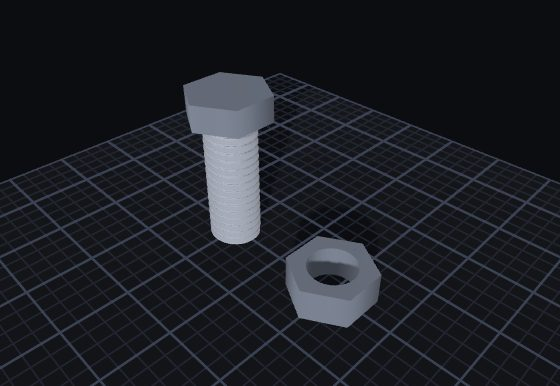
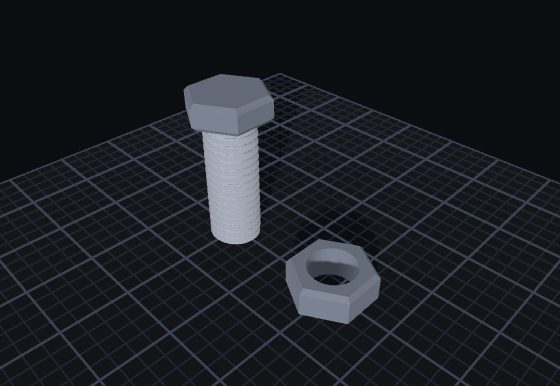
The examples stop looking like they were cut from a block
Twenty-nine parts across the builds lose their edges, now that they can.
A die is a rounded cube more than it is a cube; the tray, the soap dish,
the domino and the name plate were reading as slabs; the plant pot and
the coaster have soft rims. The bolt head and the nut are bevelled rather
than rounded, which is what a real head and a real nut are.

The cavities go with them. A tray rounded outside and sharp inside is
half a job, so the holes that scoop them out carry the same edge.

The stacking rings went out at 2.5 mm first and that was wrong: an 11 mm
ring with 2.5 mm off each rim has almost no wall left, and the four of
them melted into one smooth cone. At 1.4 mm they read as four rings
again.

Thumbnails re-shot.

diff --git a/src/examples/index.js b/src/examples/index.js
@@ -308,11 +308,11 @@ export const EXAMPLES = [
     blurb: 'A ramp to lean on and a lip to stop it sliding. Fits any phone.',
     teaches: 'ramps',
     parts: [
-      { type: 'cube', color: '#2E7DF6', params: { width: 84, height: 6, depth: 70 } },
+      { type: 'cube', color: '#2E7DF6', params: { width: 84, height: 6, depth: 70, edge: 2 } },
       // The ramp is full height at its back edge and tapers to nothing at the
       // front, which is exactly the wedge a phone wants to lean against.
       { type: 'wedge', color: '#2E7DF6', params: { width: 84, height: 46, depth: 46 }, at: [0, -12], lift: 6 },
-      { type: 'cube', color: '#FFC93D', params: { width: 84, height: 12, depth: 6 }, at: [0, 30], lift: 6 },
+      { type: 'cube', color: '#FFC93D', params: { width: 84, height: 12, depth: 6, edge: 2 }, at: [0, 30], lift: 6 },
     ],
   },
 
@@ -323,7 +323,7 @@ export const EXAMPLES = [
     teaches: 'pipes',
     parts: [
       { type: 'cylinder', color: '#35C46B', params: { bottomRadius: 34, topRadius: 34, height: 3, sides: 64 } },
-      { type: 'pipe', color: '#35C46B', params: { radius: 34, wall: 3, height: 89, sides: 64 }, lift: 3 },
+      { type: 'pipe', color: '#35C46B', params: { radius: 34, wall: 3, height: 89, sides: 64, edge: 1.2 }, lift: 3 },
     ],
   },
 
@@ -333,8 +333,8 @@ export const EXAMPLES = [
     blurb: 'A disc with a raised rim, so a wet glass stays where you put it.',
     teaches: 'round shapes',
     parts: [
-      { type: 'cylinder', color: '#A9744F', params: { bottomRadius: 45, topRadius: 45, height: 3, sides: 64 } },
-      { type: 'pipe', color: '#8A5B3C', params: { radius: 45, wall: 3, height: 5, sides: 64 }, lift: 3 },
+      { type: 'cylinder', color: '#A9744F', params: { bottomRadius: 45, topRadius: 45, height: 3, sides: 64, edge: 1 } },
+      { type: 'pipe', color: '#8A5B3C', params: { radius: 45, wall: 3, height: 5, sides: 64, edge: 1.2 }, lift: 3 },
     ],
   },
 
@@ -344,7 +344,7 @@ export const EXAMPLES = [
     blurb: 'A pipe swept most of the way round grips a cable and still lets it back out.',
     teaches: 'partial sweeps',
     parts: [
-      { type: 'cube', color: '#FF8A3D', params: { width: 24, height: 4, depth: 16 } },
+      { type: 'cube', color: '#FF8A3D', params: { width: 24, height: 4, depth: 16, edge: 1 } },
       // A pipe is built standing, so the quarter turn about X is what lays its
       // axis along the cable. The turn about Y comes first (Euler 'XYZ' with no
       // Z applies Y innermost, about the pipe's own axis) and spins the gap to
@@ -368,7 +368,7 @@ export const EXAMPLES = [
     blurb: 'Your own word on it and a hole for the ring. Change the word in the rail.',
     teaches: 'text and holes',
     parts: [
-      { type: 'cube', color: '#7C4DFF', params: { width: 46, height: 4, depth: 20 } },
+      { type: 'cube', color: '#7C4DFF', params: { width: 46, height: 4, depth: 20, edge: 1.4 } },
       { type: 'cylinder', color: '#7C4DFF', params: { bottomRadius: 10, topRadius: 10, height: 4, sides: 48 }, at: [-23, 0] },
       // Taller than the tag on purpose: a hole has to come out the far side to
       // be a hole rather than a dent.
@@ -390,8 +390,8 @@ export const EXAMPLES = [
     blurb: 'A slab and a word. Type your own into Words and it rebuilds itself.',
     teaches: 'text',
     parts: [
-      { type: 'cube', color: '#3A414F', params: { width: 110, height: 6, depth: 34 } },
-      { type: 'text', color: '#FFC93D', params: { text: 'HELLO', size: 15, thickness: 3 }, lift: 6 },
+      { type: 'cube', color: '#3A414F', params: { width: 110, height: 6, depth: 34, edge: 2 } },
+      { type: 'text', color: '#FFC93D', params: { text: 'HELLO', size: 15, thickness: 3, edge: 0.6 }, lift: 6 },
     ],
   },
 
@@ -402,7 +402,7 @@ export const EXAMPLES = [
     blurb: 'A back plate with two screw holes, and a peg raked upward so nothing slides off.',
     teaches: 'turning parts',
     parts: [
-      { type: 'cube', color: '#EDEFF4', params: { width: 30, height: 44, depth: 4 }, at: [0, -10] },
+      { type: 'cube', color: '#EDEFF4', params: { width: 30, height: 44, depth: 4, edge: 1.6 }, at: [0, -10] },
       // Lying along z, so they bore front to back through the plate.
       {
         type: 'cylinder',
@@ -451,10 +451,10 @@ export const EXAMPLES = [
     blurb: 'One block, and a second marked as a hole to scoop the inside out.',
     teaches: 'holes',
     parts: [
-      { type: 'cube', color: '#2E7DF6', params: { width: 90, height: 26, depth: 60 } },
+      { type: 'cube', color: '#2E7DF6', params: { width: 90, height: 26, depth: 60, edge: 3 } },
       // Open at the top: the hole runs past the rim rather than stopping level
       // with it, or the tray would come out as a sealed box.
-      { type: 'cube', color: '#8A93A5', params: { width: 82, height: 30, depth: 52 }, lift: 4, hole: true },
+      { type: 'cube', color: '#8A93A5', params: { width: 82, height: 30, depth: 52, edge: 3 }, lift: 4, hole: true },
     ],
   },
 
@@ -465,7 +465,7 @@ export const EXAMPLES = [
     blurb: 'Twenty-one balls marked as holes. Opposite faces add up to seven.',
     teaches: 'holes',
     parts: [
-      { type: 'cube', color: '#EDEFF4', params: { width: 24, height: 24, depth: 24 } },
+      { type: 'cube', color: '#EDEFF4', params: { width: 24, height: 24, depth: 24, edge: 2.4 } },
       ...diePips(24, 5, 2.6, PIP_OUT),
     ],
   },
@@ -477,7 +477,7 @@ export const EXAMPLES = [
     blurb: 'A tube wider at the top than the bottom, hollowed out and drained.',
     teaches: 'taper',
     parts: [
-      { type: 'cylinder', color: '#A9744F', params: { bottomRadius: 26, topRadius: 34, height: 56, sides: 64 } },
+      { type: 'cylinder', color: '#A9744F', params: { bottomRadius: 26, topRadius: 34, height: 56, sides: 64, edge: 2 } },
       // The cavity tapers with the outside, so the wall stays the same
       // thickness all the way up instead of thinning toward the rim.
       {
@@ -504,8 +504,8 @@ export const EXAMPLES = [
     blurb: 'Two holes laid crosswise cut four windows for the light to come through.',
     teaches: 'holes',
     parts: [
-      { type: 'cylinder', color: '#FF8A3D', params: { bottomRadius: 24, topRadius: 24, height: 3, sides: 64 } },
-      { type: 'pipe', color: '#FF8A3D', params: { radius: 24, wall: 3.5, height: 26, sides: 64 }, lift: 3 },
+      { type: 'cylinder', color: '#FF8A3D', params: { bottomRadius: 24, topRadius: 24, height: 3, sides: 64, edge: 1 } },
+      { type: 'pipe', color: '#FF8A3D', params: { radius: 24, wall: 3.5, height: 26, sides: 64, edge: 1.4 }, lift: 3 },
       // One bar front to back, one left to right: two parts, four windows,
       // because each bar leaves the wall twice.
       {
@@ -554,17 +554,17 @@ export const EXAMPLES = [
     blurb: 'Four flat rings down a post, each one wider than the last but with the same hole.',
     teaches: 'sizes',
     parts: [
-      { type: 'cylinder', color: '#EDEFF4', params: { bottomRadius: 40, topRadius: 40, height: 5, sides: 64 } },
+      { type: 'cylinder', color: '#EDEFF4', params: { bottomRadius: 40, topRadius: 40, height: 5, sides: 64, edge: 1.5 } },
       { type: 'cylinder', color: '#C3CAD9', params: { bottomRadius: 6, topRadius: 5, height: 52, sides: 32 }, lift: 5 },
       // Pipes, not donuts. A donut's hole is its radius less its tube, so a
       // slim ring with a small hole can only be a small ring — the four would
       // have come out the same size, or floating round a post far too thin for
       // them. A pipe sets its outside and its wall apart, so every ring here
       // keeps the same 8 mm hole and only the outside grows.
-      { type: 'pipe', color: '#FF5A47', params: { radius: 34, wall: 26, height: 11, sides: 64 }, lift: 5 },
-      { type: 'pipe', color: '#FF8A3D', params: { radius: 28, wall: 20, height: 11, sides: 64 }, lift: 16 },
-      { type: 'pipe', color: '#FFC93D', params: { radius: 22, wall: 14, height: 11, sides: 64 }, lift: 27 },
-      { type: 'pipe', color: '#35C46B', params: { radius: 16, wall: 8, height: 11, sides: 64 }, lift: 38 },
+      { type: 'pipe', color: '#FF5A47', params: { radius: 34, wall: 26, height: 11, sides: 64, edge: 1.4 }, lift: 5 },
+      { type: 'pipe', color: '#FF8A3D', params: { radius: 28, wall: 20, height: 11, sides: 64, edge: 1.4 }, lift: 16 },
+      { type: 'pipe', color: '#FFC93D', params: { radius: 22, wall: 14, height: 11, sides: 64, edge: 1.4 }, lift: 27 },
+      { type: 'pipe', color: '#35C46B', params: { radius: 16, wall: 8, height: 11, sides: 64, edge: 1.4 }, lift: 38 },
     ],
   },
 
@@ -574,8 +574,8 @@ export const EXAMPLES = [
     blurb: 'A foot the books sit on and an upright they lean on, braced by a ramp.',
     teaches: 'right angles',
     parts: [
-      { type: 'cube', color: '#3A414F', params: { width: 90, height: 6, depth: 85 } },
-      { type: 'cube', color: '#3A414F', params: { width: 90, height: 110, depth: 8 }, at: [0, -38.5], lift: 6 },
+      { type: 'cube', color: '#3A414F', params: { width: 90, height: 6, depth: 85, edge: 2 } },
+      { type: 'cube', color: '#3A414F', params: { width: 90, height: 110, depth: 8, edge: 2 }, at: [0, -38.5], lift: 6 },
       // The ramp does what an unbraced upright cannot: it stops the corner
       // opening up under the weight of the books.
       { type: 'wedge', color: '#2E7DF6', params: { width: 90, height: 45, depth: 45 }, at: [0, -12], lift: 6 },
@@ -591,8 +591,8 @@ export const EXAMPLES = [
     parts: [
       { type: 'thread', color: '#C3CAD9', params: { diameter: 16, pitch: 2.5, length: 40, angle: 60, starts: 1, sides: 48 }, at: [-20, 0] },
       // Six sides makes a hex head; it is the same tube the pen pot is made of.
-      { type: 'cylinder', color: '#8A93A5', params: { bottomRadius: 13, topRadius: 13, height: 8, sides: 6 }, at: [-20, 0], lift: 40 },
-      { type: 'cylinder', color: '#8A93A5', params: { bottomRadius: 13, topRadius: 13, height: 10, sides: 6 }, at: [20, 0] },
+      { type: 'cylinder', color: '#8A93A5', params: { bottomRadius: 13, topRadius: 13, height: 8, sides: 6, edge: 1.4, edgeStyle: 'bevel' }, at: [-20, 0], lift: 40 },
+      { type: 'cylinder', color: '#8A93A5', params: { bottomRadius: 13, topRadius: 13, height: 10, sides: 6, edge: 1.4, edgeStyle: 'bevel' }, at: [20, 0] },
       { type: 'cylinder', color: '#3A414F', params: { bottomRadius: 7.2, topRadius: 7.2, height: 20, sides: 32 }, at: [20, 0], y: 5, hole: true },
     ],
   },
@@ -624,8 +624,8 @@ export const EXAMPLES = [
     blurb: 'A tray with three holes in the floor, so the soap dries instead of sitting in water.',
     teaches: 'holes',
     parts: [
-      { type: 'cube', color: '#35C46B', params: { width: 100, height: 16, depth: 70 } },
-      { type: 'cube', color: '#8A93A5', params: { width: 90, height: 20, depth: 60 }, lift: 5, hole: true },
+      { type: 'cube', color: '#35C46B', params: { width: 100, height: 16, depth: 70, edge: 4 } },
+      { type: 'cube', color: '#8A93A5', params: { width: 90, height: 20, depth: 60, edge: 4 }, lift: 5, hole: true },
       { type: 'cylinder', color: '#8A93A5', params: { bottomRadius: 5, topRadius: 5, height: 20, sides: 32 }, at: [-24, 0], y: 4, hole: true },
       { type: 'cylinder', color: '#8A93A5', params: { bottomRadius: 5, topRadius: 5, height: 20, sides: 32 }, at: [0, 0], y: 4, hole: true },
       { type: 'cylinder', color: '#8A93A5', params: { bottomRadius: 5, topRadius: 5, height: 20, sides: 32 }, at: [24, 0], y: 4, hole: true },
@@ -638,7 +638,7 @@ export const EXAMPLES = [
     blurb: 'A short length of pipe with a star stood up on the front of it.',
     teaches: 'putting shapes together',
     parts: [
-      { type: 'pipe', color: '#D6E24A', params: { radius: 22, wall: 3, height: 32, sides: 64 } },
+      { type: 'pipe', color: '#D6E24A', params: { radius: 22, wall: 3, height: 32, sides: 64, edge: 1.2 } },
       // A star is built lying flat, like a donut, so it has to be stood up to be
       // seen at all. A quarter turn about Z puts its face along +x — the side
       // the opening view looks straight at, rather than the back of the ring
@@ -665,7 +665,7 @@ export const EXAMPLES = [
     blurb: 'A groove down the middle and five dimples, every one of them a hole.',
     teaches: 'holes',
     parts: [
-      { type: 'cube', color: '#EDEFF4', params: { width: 48, height: 8, depth: 24 } },
+      { type: 'cube', color: '#EDEFF4', params: { width: 48, height: 8, depth: 24, edge: 1.6 } },
       // Past the edge at both ends, or the groove stops short and reads as a
       // scratch rather than a line.
       { type: 'cube', color: '#8A93A5', params: { width: 1.6, height: 3, depth: 28 }, lift: 7, hole: true },
